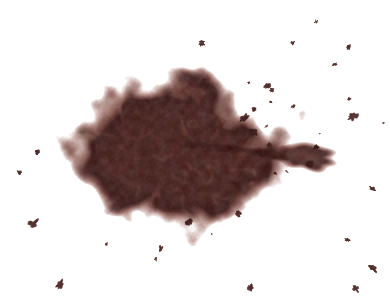
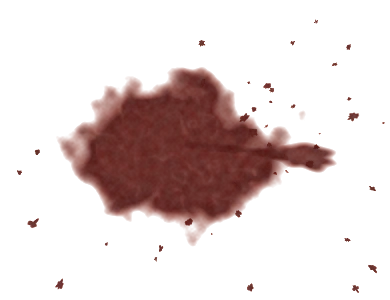
pit-cage blood: bigger events sized for the 1.5 m the gate camera sees either side of the arch, shorter runs, a little redder; spray mirrored to fly away from the arch

diff --git a/src/pit/glow.ts b/src/pit/glow.ts
@@ -106,8 +106,8 @@ export function addBloodStains(group: THREE.Group, width: number, depth: number)
 // a drag trail by the bed. Flat decals over the floor stains, lit like the sand.
 type Ground = { img: Blood; x: number; z: number; w: number; h: number; turn: number };   // w × h metres (the image's own aspect)
 const GROUND: readonly Ground[] = [
-  { img: 'puddle', x: -3.7, z: 0.9, w: 1.5, h: 1.15, turn: 0.4 },
-  { img: 'smear', x: 3.4, z: 1.7, w: 2.6, h: 0.96, turn: -1.15 },
+  { img: 'puddle', x: -3.4, z: 0.6, w: 2.4, h: 1.85, turn: 0.4 },
+  { img: 'smear', x: 3.1, z: 1.2, w: 3.6, h: 1.33, turn: -1.15 },
 ];
 export function addGroundBlood(group: THREE.Group) {
   const textures: THREE.Texture[] = [], materials: THREE.MeshStandardMaterial[] = [], geometries: THREE.BufferGeometry[] = [];
@@ -133,7 +133,7 @@ export function addGroundBlood(group: THREE.Group) {
 // stop in a bead, finger streaks, a cracked pool), laid where a fight would leave them rather than in a band. One sheet per wall over the
 // grime, lit like the wall (MeshStandardMaterial), never glowing.
 type Blood = 'spray' | 'smear' | 'splash' | 'pool' | 'puddle';
-type Mark = { img: Blood; x: number; y: number; w: number };   // x, y: the image's centre in metres from the wall's left and the floor; w: its width in metres
+type Mark = { img: Blood; x: number; y: number; w: number; flip?: boolean };   // x, y: the image's centre in metres from the wall's left and the floor; w: its width in metres
 const BLOOD_PPM = 200;
 
 function loadBlood(names: readonly Blood[]): Promise<Record<string, HTMLImageElement>> {
@@ -155,7 +155,11 @@ function bloodTexture(w: number, h: number, marks: readonly Mark[]) {
     const g = canvas.getContext('2d')!;
     for (const m of marks) {
       const img = images[m.img]!, dw = m.w * BLOOD_PPM, dh = dw * img.height / img.width;
-      g.drawImage(img, m.x * BLOOD_PPM - dw / 2, ch - m.y * BLOOD_PPM - dh / 2, dw, dh);
+      g.save();
+      g.translate(m.x * BLOOD_PPM, ch - m.y * BLOOD_PPM);
+      if (m.flip) g.scale(-1, 1);
+      g.drawImage(img, -dw / 2, -dh / 2, dw, dh);
+      g.restore();
     }
     map.needsUpdate = true;
   }, () => undefined);
@@ -185,8 +189,8 @@ export function addGrime(group: THREE.Group, room: { width: number; depth: numbe
   const { width: W, depth: D, height: H, gateWidth } = room, hw = W / 2, hd = D / 2, side = hw - gateWidth / 2, off = 0.012;
   const torchU = (D / 2 + torchZ) / D;   // the sconces sit near the far end of each side wall
   const walls: Wall[] = [
-    { w: side, h: H, at: [-hw + side / 2, H / 2, -hd + off], turn: 0, seed: 301, marks: [{ img: 'spray', x: 2.9, y: 1.75, w: 2.4 }] },
-    { w: side, h: H, at: [hw - side / 2, H / 2, -hd + off], turn: 0, seed: 307, marks: [{ img: 'splash', x: 1.9, y: 2.1, w: 1.7 }] },
+    { w: side, h: H, at: [-hw + side / 2, H / 2, -hd + off], turn: 0, seed: 301, marks: [{ img: 'spray', x: 3.2, y: 1.9, w: 2.8, flip: true }] },
+    { w: side, h: H, at: [hw - side / 2, H / 2, -hd + off], turn: 0, seed: 307, marks: [{ img: 'splash', x: 0.9, y: 2.3, w: 2.2 }] },
     // the left wall is turned +90°, so its u runs toward the far wall: the torch sits at 1 - torchU there
     { w: D, h: H, at: [-hw + off, H / 2, 0], turn: Math.PI / 2, seed: 311, torch: 1 - torchU, marks: [{ img: 'spray', x: 5.3, y: 1.8, w: 3.0 }] },
     { w: D, h: H, at: [hw - off, H / 2, 0], turn: -Math.PI / 2, seed: 313, torch: torchU, marks: [{ img: 'smear', x: 3.3, y: 1.2, w: 3.4 }] },

diff --git a/scripts/pit-blood-decals.py b/scripts/pit-blood-decals.py
@@ -61,7 +61,7 @@ class Wall:
     def finish(self, tint=(1.0, 1.0, 1.0)):
         T = self.T
         T = np.clip(T, 0, 3)
-        thin = np.array([128, 52, 38]); thick = np.array([44, 8, 6])
+        thin = np.array([150, 60, 44]); thick = np.array([76, 12, 9])
         rim = np.clip(ndi.gaussian_filter(T, 1.2) - ndi.gaussian_filter(T, 7), 0, None)
         depth = np.clip(T * 0.8 + rim * 1.4, 0, 1.4)
         mott = 0.88 + 0.24 * noise(self.rng, self.h, self.w, 9, 3)
@@ -117,9 +117,9 @@ _nz = {}
 def noise_val(rng, i):
     return 0.5 + 0.5 * math.sin(i * 0.37 + 1.3) * math.sin(i * 0.11)
 
-def splash(seed, W=int(1.1 * PPM), H=int(1.9 * PPM)):
+def splash(seed, W=int(1.1 * PPM), H=int(1.25 * PPM)):
     g = Wall(W, H, seed); rng = g.rng
-    cx, cy = 0.5 * W, 0.2 * H
+    cx, cy = 0.5 * W, 0.26 * H
     g.film(cx, cy, 55, 0.45)
     g.blob(cx, cy, 30, 1.1, rng.random() * 3, 1.6)
     for _ in range(9): g.blob(cx + rng.normal(0, 22), cy + rng.normal(0, 20), rng.uniform(6, 15), rng.uniform(1.0, 1.4), rng.random() * 6.28, 1.1)
@@ -128,7 +128,7 @@ def splash(seed, W=int(1.1 * PPM), H=int(1.9 * PPM)):
         r = max(0.9, 7 * math.exp(-rho / 55) * rng.lognormal(0, 0.4))
         g.blob(cx + math.cos(ang) * rho, cy + math.sin(ang) * rho * 0.9, r * 1.3, 1 + rho / 140, ang, 1.0, tail=r * 1.2 + rho * 0.04)
     for _ in range(7):   # runs: one long, the rest stopping short
-        g.run(cx + rng.normal(0, 24), cy + 14 + rng.uniform(0, 14), rng.choice([rng.uniform(40, 110), rng.uniform(120, 300)]), rng.uniform(2.4, 4.4), 0.9)
+        g.run(cx + rng.normal(0, 24), cy + 14 + rng.uniform(0, 14), rng.choice([rng.uniform(30, 80), rng.uniform(90, 190)]), rng.uniform(2.4, 4.4), 0.9)
     return g.finish()
 
 def pool(seed, W=int(2.1 * PPM), H=int(0.75 * PPM)):
